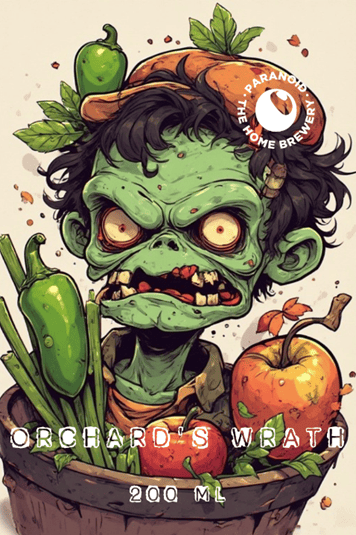
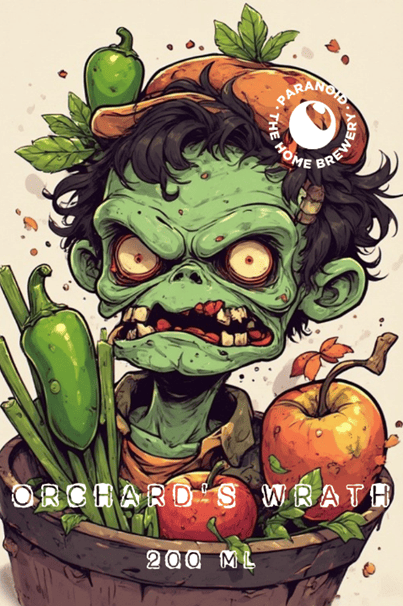
fix: поправил радиус картинок
fix: загрузил правильные размеры картинок

diff --git a/src/components/BeerCatalog.tsx b/src/components/BeerCatalog.tsx
@@ -67,8 +67,11 @@ const BeerCatalog = () => {
       key={product.id}
       style={{ display: "flex" }}
     >
-      <Card style={{ height: "100%", display: "flex", flexDirection: "column", width: "100%" }}
-        styles={{ body: { flex: 1, display: "flex", flexDirection: "column", padding: responsive.md ? 16 : 12 } }}
+      <Card style={{ height: "100%", display: "flex", flexDirection: "column", width: "100%", borderRadius: 8 }}
+        styles={{
+          body: { flex: 1, display: "flex", flexDirection: "column", padding: responsive.md ? 16 : 12 },
+          cover: { marginTop: -2 }
+      }}
         cover={
           <Flex style={{ position: "relative" }}>
             {product.category === "ACCESSORIES" ? (
@@ -106,7 +109,7 @@ const BeerCatalog = () => {
                 loading="lazy"
                 src={product.imageUrl}
                 preview={false}
-                style={{ objectFit: "cover", width: "100%" }}
+                style={{ objectFit: "cover", width: "100%", borderTopLeftRadius: 8, borderTopRightRadius: 8 }}
               />
             )}
             <Flex
